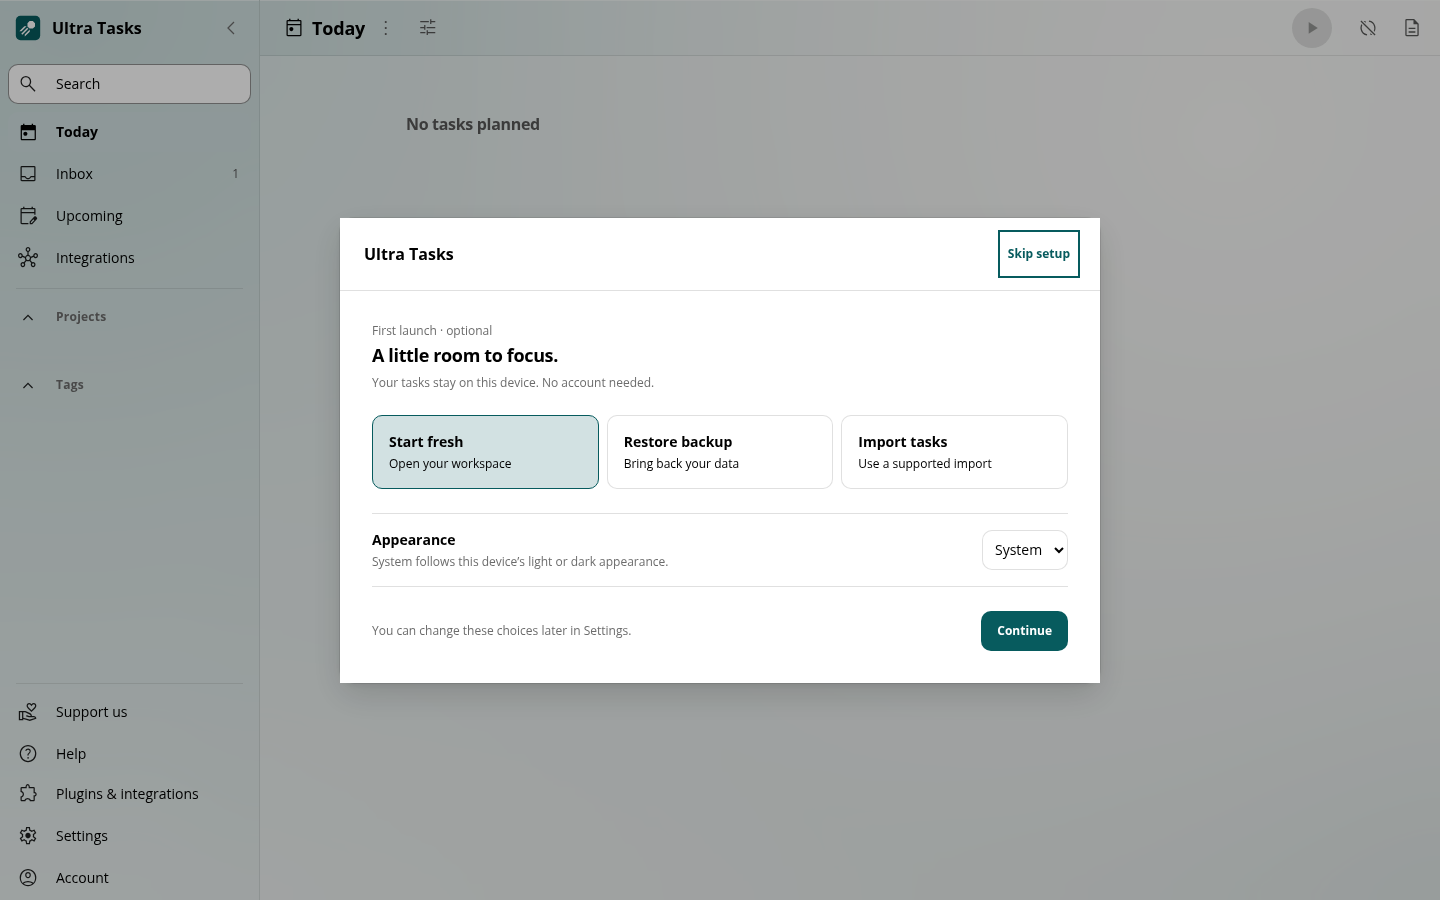
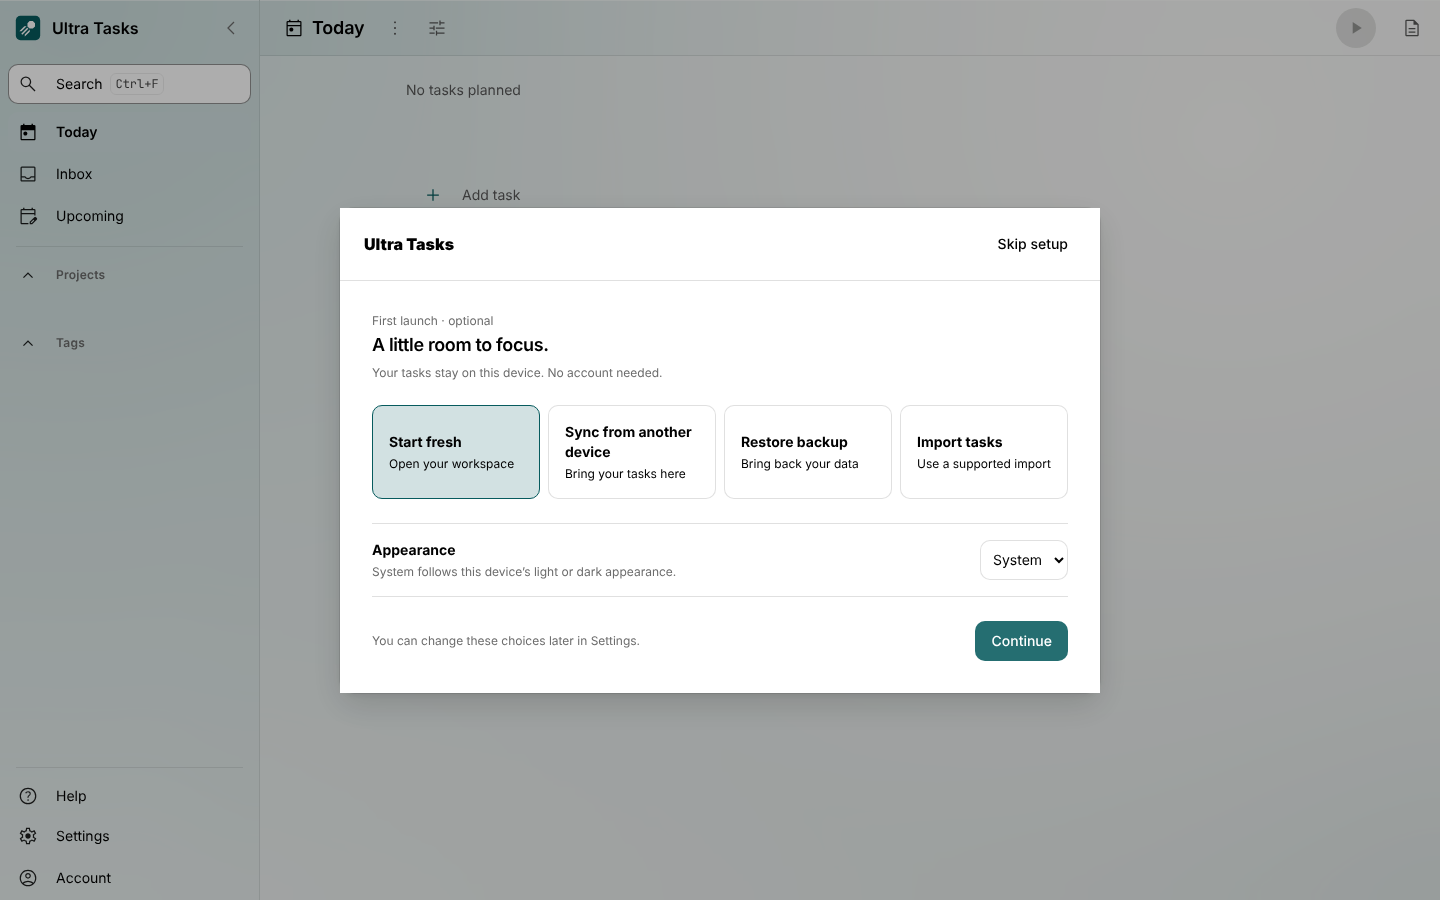
feat(onboarding): offer a sync path on first run, and open Settings by name
The first-run welcome had no way to bring tasks from another device. It now
has a fourth card, "Sync from another device", which opens Settings -> Account
(/#/account), where "Set up sync" starts the existing dialog; nothing is set up
on the user's behalf. Like Restore and Import it seeds no example task, now or
on a later start (FirstRunOutcome gains 'sync').

Restore and Import used queryParams { tab: 5 }, a bare index that silently
points at the wrong tab if the tabs are reordered. Settings now resolves
section=data to the Data tab, beside the existing keyboard, sound and
appearance aliases, and first run uses that.

Presentation and routing only: no persisted field, operation or sync surface.
The wiki screenshot of the welcome is regenerated.

Claude-Session: https://claude.ai/code/session_014CSGerFV8G8Jy9JJtVkKw2

diff --git a/src/app/pages/config-page/config-page.component.spec.ts b/src/app/pages/config-page/config-page.component.spec.ts
@@ -39,6 +39,7 @@ describe('ConfigPageComponent', () => {
     isAndroidWebView: boolean = false,
     lastBackupTime: number | null = null,
     isRenderSections: boolean = false,
+    queryParams: Record<string, string> = {},
   ): Promise<void> => {
     const mockSyncConfigService = jasmine.createSpyObj(
       'SyncConfigService',
@@ -103,7 +104,7 @@ describe('ConfigPageComponent', () => {
             appFeatures: signal(NEW_INSTALL_APP_FEATURES),
           }),
         },
-        { provide: ActivatedRoute, useValue: { queryParams: of({}) } },
+        { provide: ActivatedRoute, useValue: { queryParams: of(queryParams) } },
         { provide: PluginBridgeService, useValue: { shortcuts: signal([]) } },
         { provide: SyncWrapperService, useValue: mockSyncWrapperService },
         { provide: ShareService, useValue: {} },
@@ -201,6 +202,28 @@ describe('ConfigPageComponent', () => {
     expect(mockMatDialog.getDialogById).toHaveBeenCalledWith('settings-window');
     expect(close).toHaveBeenCalledTimes(1);
     expect(navigateByUrl).toHaveBeenCalledWith('/account');
+  });
+
+  describe('named section targets', () => {
+    // The first-run Restore and Import open Settings by name, never by tab index.
+    it('opens the Data tab for section=data', async () => {
+      TestBed.resetTestingModule();
+      await setup(false, null, false, { section: 'data' });
+      component.ngOnInit();
+      expect(component.selectedTabIndex).toBe(5);
+    });
+
+    it('opens Appearance for section=appearance, as before', async () => {
+      TestBed.resetTestingModule();
+      await setup(false, null, false, { section: 'appearance' });
+      component.ngOnInit();
+      expect(component.selectedTabIndex).toBe(6);
+    });
+
+    it('stays on the first tab without a target', () => {
+      component.ngOnInit();
+      expect(component.selectedTabIndex).toBe(0);
+    });
   });
 
   it('openSyncCfgDialog() should open DialogSyncCfgComponent', async () => {

diff --git a/e2e/tests/onboarding/first-run-setup.spec.ts b/e2e/tests/onboarding/first-run-setup.spec.ts
@@ -52,3 +52,45 @@ test('restore opens the existing import settings without replacing data', async 
   await expect(page.locator('work-view')).toBeAttached();
   await expect(page.locator('task')).toHaveCount(0);
 });
+
+test('syncing from another device opens the Account page and seeds no example task', async ({
+  isolatedContext,
+}) => {
+  const page = await isolatedContext.newPage();
+  await page.goto('/');
+  const setup = page.locator('first-run-setup');
+  await expect(setup).toBeVisible();
+  await setup.getByRole('button', { name: 'Sync from another device' }).click();
+  await setup.getByRole('button', { name: 'Continue' }).click();
+  await expect(setup).toHaveCount(0);
+  // The page that sets sync up, not a sync dialog opened for them.
+  await expect(
+    page.getByRole('button', { name: 'Set up sync', exact: true }),
+  ).toBeVisible();
+  await expect(page.locator('dialog-sync-cfg')).toHaveCount(0);
+
+  // Their tasks come from elsewhere: no example task, now or later.
+  await page.goto('/#/project/INBOX_PROJECT/tasks');
+  await expect(page.locator('work-view')).toBeAttached();
+  await expect(page.locator('task')).toHaveCount(0);
+});
+
+test('offers the four ways to begin, and the new one is reachable by keyboard', async ({
+  isolatedContext,
+}) => {
+  const page = await isolatedContext.newPage();
+  await page.goto('/');
+  const setup = page.locator('first-run-setup');
+  await expect(setup).toBeVisible();
+  const choices = setup.getByRole('group', { name: 'Choose how to begin' });
+  await expect(choices.getByRole('button')).toHaveText([
+    /Start fresh/,
+    /Sync from another device/,
+    /Restore backup/,
+    /Import tasks/,
+  ]);
+  const sync = choices.getByRole('button', { name: /Sync from another device/ });
+  await sync.focus();
+  await page.keyboard.press('Enter');
+  await expect(sync).toHaveAttribute('aria-pressed', 'true');
+});

diff --git a/src/app/features/onboarding/first-run-setup.service.spec.ts b/src/app/features/onboarding/first-run-setup.service.spec.ts
@@ -106,14 +106,32 @@ describe('FirstRunSetupService', () => {
     expect(dialog.open).toHaveBeenCalledTimes(1);
   });
 
-  it('opens the existing import settings rather than importing data itself', () => {
+  (['restore', 'import'] as FirstRunChoice[]).forEach((choice) => {
+    it(`opens the data settings by name, not by tab index, for ${choice}`, () => {
+      TestBed.inject(FirstRunSetupService);
+      step.set('create-task');
+      TestBed.tick();
+      closed.next(choice);
+      expect(router.navigate).toHaveBeenCalledOnceWith(['/config'], {
+        queryParams: { section: 'data' },
+      });
+    });
+  });
+
+  it('opens the Account page, where sync is set up, rather than setting sync up itself', () => {
     TestBed.inject(FirstRunSetupService);
     step.set('create-task');
     TestBed.tick();
-    closed.next('restore');
-    expect(router.navigate).toHaveBeenCalledWith(['/config'], {
-      queryParams: { tab: 5 },
-    });
+    closed.next('sync');
+    expect(router.navigate).toHaveBeenCalledOnceWith(['/account']);
+  });
+
+  it('goes nowhere for Start fresh', () => {
+    TestBed.inject(FirstRunSetupService);
+    step.set('create-task');
+    TestBed.tick();
+    closed.next('fresh');
+    expect(router.navigate).not.toHaveBeenCalled();
   });
 
   describe('example-task gate', () => {
@@ -146,7 +164,7 @@ describe('FirstRunSetupService', () => {
       expect(released).toEqual(['skip']);
     });
 
-    ['restore', 'import'].forEach((choice) => {
+    ['sync', 'restore', 'import'].forEach((choice) => {
       it(`marks examples as done when the user chooses ${choice}`, () => {
         TestBed.inject(FirstRunSetupService);
         step.set('create-task');

diff --git a/src/app/features/onboarding/first-run-setup.service.ts b/src/app/features/onboarding/first-run-setup.service.ts
@@ -74,15 +74,20 @@ export class FirstRunSetupService {
       .subscribe((choice) => {
         this.isOpen.set(false);
         localStorage.setItem(LS.FIRST_RUN_SETUP_DONE, 'true');
-        const isBringingData = choice === 'restore' || choice === 'import';
+        const isBringingData =
+          choice === 'sync' || choice === 'restore' || choice === 'import';
         if (isBringingData) {
           // They bring their own data: no example task now or on a later start.
           localStorage.setItem(LS.EXAMPLE_TASKS_CREATED, 'true');
         }
         // Closing the dialog any other way (Escape, backdrop) counts as Skip.
         this._gate.release(choice ?? 'skip');
-        if (isBringingData) {
-          void this._router.navigate(['/config'], { queryParams: { tab: 5 } });
+        // Each path opens the page that does the work, by a named target (never
+        // a tab index, which would silently point elsewhere if the tabs moved).
+        if (choice === 'sync') {
+          void this._router.navigate(['/account']);
+        } else if (choice === 'restore' || choice === 'import') {
+          void this._router.navigate(['/config'], { queryParams: { section: 'data' } });
         }
       });
   }

diff --git a/src/app/core/example-tasks/first-run-gate.service.ts b/src/app/core/example-tasks/first-run-gate.service.ts
@@ -3,7 +3,13 @@ import { defer, Observable, of, Subject } from 'rxjs';
 import { take } from 'rxjs/operators';
 
 /** How the first-run welcome ended, or `not-offered` when it never opens. */
-export type FirstRunOutcome = 'not-offered' | 'fresh' | 'restore' | 'import' | 'skip';
+export type FirstRunOutcome =
+  | 'not-offered'
+  | 'fresh'
+  | 'sync'
+  | 'restore'
+  | 'import'
+  | 'skip';
 
 /**
  * Lets the first-run welcome decide before example tasks are seeded.
@@ -11,7 +17,7 @@ export type FirstRunOutcome = 'not-offered' | 'fresh' | 'restore' | 'import' | '
  * The welcome holds the gate when it may open, and releases it with the user's
  * choice. `ExampleTasksService` waits on {@link whenReleased$}, so nothing is
  * created behind a dialog that offers "Start fresh", and nothing is created for
- * someone who restores a backup or imports tasks. When nobody holds the gate
+ * someone who syncs from another device, restores a backup or imports tasks. When nobody holds the gate
  * (returning profile, tests) the wait resolves at once as `not-offered`.
  *
  * Device-local and in memory only: no persisted state, no sync surface.

diff --git a/src/app/core/example-tasks/example-tasks.service.ts b/src/app/core/example-tasks/example-tasks.service.ts
@@ -64,9 +64,13 @@ export class ExampleTasksService {
       .pipe(
         first(),
         // The first-run welcome decides first: no example task appears behind
-        // it, and none for someone who restores a backup or imports tasks.
+        // it, and none for someone who syncs from another device, restores a
+        // backup or imports tasks: their data comes from elsewhere.
         switchMap(() => this._firstRunGate.whenReleased$()),
-        filter((outcome) => outcome !== 'restore' && outcome !== 'import'),
+        filter(
+          (outcome) =>
+            outcome !== 'sync' && outcome !== 'restore' && outcome !== 'import',
+        ),
         switchMap(() => this._store.select(selectAllTasks).pipe(first())),
         // Tasks already exist (e.g. synced from another device): mark onboarding done
         // so a future empty-task startup does not recreate example tasks. (#7976)

diff --git a/src/app/pages/config-page/config-page.component.ts b/src/app/pages/config-page/config-page.component.ts
@@ -374,6 +374,8 @@ export class ConfigPageComponent implements OnInit {
           if (this.expandedSection === 'keyboard') this.selectedTabIndex = 7;
           if (this.expandedSection === 'sound') this.selectedTabIndex = 8;
           if (this.expandedSection === 'appearance') this.selectedTabIndex = 6;
+          // Backups, import and export: the first-run Restore and Import land here.
+          if (this.expandedSection === 'data') this.selectedTabIndex = 5;
           if (
             this.globalTasksFormCfg.some(
               (section) => section.key === this.expandedSection,

diff --git a/src/app/core/example-tasks/example-tasks.service.spec.ts b/src/app/core/example-tasks/example-tasks.service.spec.ts
@@ -170,7 +170,7 @@ describe('ExampleTasksService', () => {
       expect(taskService.createNewTaskWithDefaults).toHaveBeenCalledTimes(1);
     });
 
-    (['restore', 'import'] as FirstRunOutcome[]).forEach((outcome) => {
+    (['sync', 'restore', 'import'] as FirstRunOutcome[]).forEach((outcome) => {
       it(`creates no example task when the user chose ${outcome}`, () => {
         gate.release(outcome);
         expect(taskService.createNewTaskWithDefaults).not.toHaveBeenCalled();

diff --git a/src/app/features/onboarding/first-run-setup.component.html b/src/app/features/onboarding/first-run-setup.component.html
@@ -30,6 +30,14 @@
       </button>
       <button
         type="button"
+        [attr.aria-pressed]="selected() === 'sync'"
+        (click)="selected.set('sync')"
+      >
+        <strong>{{ T.ONBOARDING.SETUP.SYNC | translate }}</strong>
+        <span>{{ T.ONBOARDING.SETUP.SYNC_HINT | translate }}</span>
+      </button>
+      <button
+        type="button"
         [attr.aria-pressed]="selected() === 'restore'"
         (click)="selected.set('restore')"
       >

diff --git a/src/app/features/onboarding/first-run-setup.component.scss b/src/app/features/onboarding/first-run-setup.component.scss
@@ -44,7 +44,7 @@ select {
 
 .choices {
   display: grid;
-  grid-template-columns: repeat(3, minmax(0, 1fr));
+  grid-template-columns: repeat(4, minmax(0, 1fr));
   gap: var(--s);
 
   button {
@@ -77,6 +77,10 @@ select {
   span {
     margin-top: var(--s-half);
     font: var(--type-meta);
+  }
+
+  @include mq(sm, max) {
+    grid-template-columns: repeat(2, minmax(0, 1fr));
   }
 
   @include mq(xs, max) {

diff --git a/src/app/core/example-tasks/first-run-gate.service.spec.ts b/src/app/core/example-tasks/first-run-gate.service.spec.ts
@@ -30,4 +30,11 @@ describe('FirstRunGateService', () => {
     gate.whenReleased$().subscribe((outcome) => seen.push(outcome));
     expect(seen).toEqual(['restore']);
   });
+
+  it('carries the sync outcome like any other', () => {
+    gate.hold();
+    gate.whenReleased$().subscribe((outcome) => seen.push(outcome));
+    gate.release('sync');
+    expect(seen).toEqual(['sync']);
+  });
 });

diff --git a/src/app/features/onboarding/first-run-setup.component.ts b/src/app/features/onboarding/first-run-setup.component.ts
@@ -5,7 +5,7 @@ import { TranslatePipe } from '@ngx-translate/core';
 import { GlobalThemeService } from '../../core/theme/global-theme.service';
 import { T } from '../../t.const';
 
-export type FirstRunChoice = 'fresh' | 'restore' | 'import' | 'skip';
+export type FirstRunChoice = 'fresh' | 'sync' | 'restore' | 'import' | 'skip';
 
 @Component({
   selector: 'first-run-setup',
